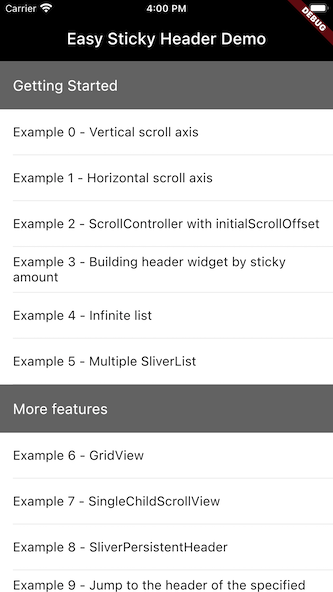
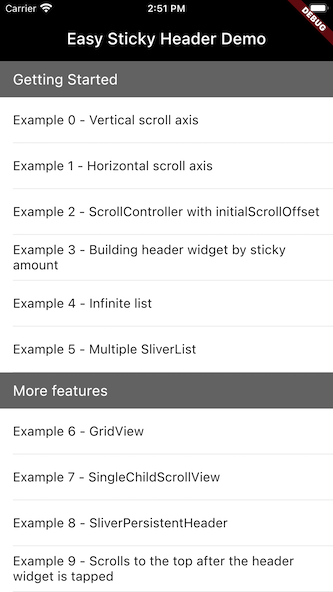
Update README and examples

diff --git a/example/lib/examples/example10.dart b/example/lib/examples/example10.dart
@@ -1,16 +1,17 @@
 import 'dart:math';
 
 import 'package:easy_sticky_header/easy_sticky_header.dart';
+import 'package:flutter/foundation.dart';
 import 'package:flutter/material.dart';
 
-class Example9 extends StatefulWidget {
-  const Example9({Key? key}) : super(key: key);
+class Example10 extends StatefulWidget {
+  const Example10({Key? key}) : super(key: key);
 
   @override
-  State<Example9> createState() => _Example9State();
+  State<Example10> createState() => _Example10State();
 }
 
-class _Example9State extends State<Example9> {
+class _Example10State extends State<Example10> {
   late final StickyHeaderController _controller;
 
   @override
@@ -32,8 +33,7 @@ class _Example9State extends State<Example9> {
       appBar: AppBar(
         shadowColor: Colors.transparent,
         backgroundColor: Colors.black,
-        title:
-            const Text('Scrolls to the top after the header widget is tapped'),
+        title: const Text('Jumps to the header of the specified index'),
       ),
       body: StickyHeader(
         controller: _controller,
@@ -43,28 +43,21 @@ class _Example9State extends State<Example9> {
           ),
           itemCount: 100,
           itemBuilder: (context, index) {
-            if (index % 6 == 0) {
+            if (index % 3 == 0) {
               return StickyContainerWidget(
                 index: index,
-                child: GestureDetector(
-                  onTap: () {
-                    // Jumps without animation.
-                    // _controller.jumpTo(index);
-                    _controller.animateTo(index);
-                  },
-                  child: Container(
-                    color: Color.fromRGBO(Random().nextInt(256),
-                        Random().nextInt(256), Random().nextInt(256), 1),
-                    padding: const EdgeInsets.only(left: 16.0),
-                    alignment: Alignment.centerLeft,
-                    width: double.infinity,
-                    height: 50,
-                    child: Text(
-                      'Header #$index',
-                      style: const TextStyle(
-                        color: Colors.white,
-                        fontSize: 16,
-                      ),
+                child: Container(
+                  color: Color.fromRGBO(Random().nextInt(256),
+                      Random().nextInt(256), Random().nextInt(256), 1),
+                  padding: const EdgeInsets.only(left: 16.0),
+                  alignment: Alignment.centerLeft,
+                  width: double.infinity,
+                  height: 50,
+                  child: Text(
+                    'Header #$index',
+                    style: const TextStyle(
+                      color: Colors.white,
+                      fontSize: 16,
                     ),
                   ),
                 ),
@@ -95,6 +88,23 @@ class _Example9State extends State<Example9> {
               ],
             );
           },
+        ),
+      ),
+      floatingActionButton: FloatingActionButton(
+        onPressed: () {
+          /// Note that this jump operation is cache based. If the header widget
+          /// information of the specified index is not in the cache, no
+          /// operation will be performed and false will be returned.
+          if (kDebugMode) {
+            print('success: ${_controller.jumpTo(6)}');
+          }
+        },
+        child: const Text(
+          'Jump',
+          style: TextStyle(
+            color: Colors.white,
+            fontSize: 10,
+          ),
         ),
       ),
     );

diff --git a/lib/src/sticky_header_controller.dart b/lib/src/sticky_header_controller.dart
@@ -270,13 +270,33 @@ class StickyHeaderController extends ChangeNotifier {
   /// Usually no need to call, this is called to avoid problems in some cases.
   void clearStickyHeaderInfo() => _stickyHeaderInfoMap.clear();
 
-  /// Jump to the header widget of the specified index.
+  /// Jumps to the header widget of the specified index, adding a transition
+  /// animation compared to [jumpTo]. For the attention of [animateTo], please
+  /// also refer to the usage of [jumpTo].
+  bool animateTo(
+    int index, {
+    Duration? duration,
+    Curve? curve,
+  }) {
+    var stickyHeaderInfo = getStickyHeaderInfo(index);
+    if (stickyHeaderInfo != null) {
+      _scrollPosition?.animateTo(
+        stickyHeaderInfo.pixels,
+        duration: duration ?? const Duration(milliseconds: 500),
+        curve: curve ?? Curves.ease,
+      );
+      return true;
+    }
+    return false;
+  }
+
+  /// Jumps to the header widget of the specified index.
   ///
   /// Note that this jump operation is based on the [_stickyHeaderInfoMap]
   /// cache. If the header widget information of the specified index is not
   /// in the cache, no operation will be performed and false will be returned.
   bool jumpTo(int index) {
-    var stickyHeaderInfo = _stickyHeaderInfoMap[index];
+    var stickyHeaderInfo = getStickyHeaderInfo(index);
     if (stickyHeaderInfo != null) {
       _scrollPosition?.jumpTo(stickyHeaderInfo.pixels);
       WidgetsBinding.instance.addPostFrameCallback((timeStamp) {

diff --git a/example/lib/main.dart b/example/lib/main.dart
@@ -3,6 +3,7 @@ import 'package:flutter/material.dart';
 
 import 'examples/example0.dart';
 import 'examples/example1.dart';
+import 'examples/example10.dart';
 import 'examples/example2.dart';
 import 'examples/example3.dart';
 import 'examples/example4.dart';
@@ -95,8 +96,13 @@ class _MyHomePageState extends State<MyHomePage> {
             } else if (index == 11) {
               return _buildItem(
                   index,
-                  'Example 9 - Jump to the header of the specified index',
+                  'Example 9 - Scrolls to the top after the header widget is tapped',
                   () => _push(context, const Example9()));
+            } else if (index == 12) {
+              return _buildItem(
+                  index,
+                  'Example 10 - Jumps to the header widget of the specified index',
+                  () => _push(context, const Example10()));
             }
             return Container();
           },
@@ -112,7 +118,7 @@ class _MyHomePageState extends State<MyHomePage> {
           padding: const EdgeInsets.only(left: 16.0),
           alignment: Alignment.centerLeft,
           width: double.infinity,
-          height: 60,
+          height: 45,
           child: Text(
             title,
             style: const TextStyle(

diff --git a/example/lib/examples/example0.dart b/example/lib/examples/example0.dart
@@ -98,38 +98,5 @@ class _Example0State extends State<Example0> {
         ),
       ),
     );
-
-    // StickyHeader(
-    //   child: ListView.builder(
-    //     itemCount: 100,
-    //     itemBuilder: (context, index) {
-    //       if (index % 3 == 0) {
-    //         return StickyContainerWidget(
-    //           index: index,
-    //           child: Container(
-    //             color: Color.fromRGBO(Random().nextInt(256),
-    //                 Random().nextInt(256), Random().nextInt(256), 1),
-    //             padding: const EdgeInsets.only(left: 16.0),
-    //             alignment: Alignment.centerLeft,
-    //             width: double.infinity,
-    //             height: 50,
-    //             child: Text(
-    //               'Header #$index',
-    //               style: const TextStyle(
-    //                 color: Colors.white,
-    //                 fontSize: 16,
-    //               ),
-    //             ),
-    //           ),
-    //         );
-    //       }
-    //       return Container(
-    //         width: double.infinity,
-    //         height: 80,
-    //         color: Colors.white,
-    //       );
-    //     },
-    //   ),
-    // );
   }
 }

diff --git a/README.md b/README.md
@@ -1,8 +1,10 @@
 # easy_sticky_header
 
-[![](https://img.shields.io/badge/platform-Flutter-blue.svg)](https://flutter.dev)
-[![](https://img.shields.io/pub/v/easy_sticky_header.svg)](https://pub.dev/packages/easy_sticky_header)
-[![](https://img.shields.io/badge/License-MIT-green.svg)](https://opensource.org/licenses/MIT)
+[![platform](https://img.shields.io/badge/platform-Flutter-blue.svg?logo=flutter)](https://flutter.dev)
+[![pub](https://img.shields.io/pub/v/easy_sticky_header.svg)](https://pub.dev/packages/easy_sticky_header)
+[![license](https://img.shields.io/badge/License-MIT-green.svg)](https://opensource.org/licenses/MIT)
+[![issues](https://img.shields.io/github/issues/crasowas/easy_sticky_header?logo=github)](https://github.com/crasowas/easy_sticky_header/issues)
+[![commits](https://img.shields.io/github/last-commit/crasowas/easy_sticky_header?logo=github)](https://github.com/crasowas/easy_sticky_header/commits)
 
 ## English | [中文](README-CN.md)
 
@@ -13,7 +15,8 @@ An easy-to-use and powerful sticky header for any widget that supports scrolling
 * Support widget for horizontal or vertical scrolling
 * Support widget for reverse scrolling
 * Allow dynamic building of header widget and support custom transition animation
-* Header widget can be non-sticky
+* Header widget can dynamically change stickiness
+* Support for scrolling to the top after the header widget is tapped
 * Support infinite list
 
 ## Usage

diff --git a/README-CN.md b/README-CN.md
@@ -1,8 +1,10 @@
 # easy_sticky_header
 
-[![](https://img.shields.io/badge/platform-Flutter-blue.svg)](https://flutter.dev)
-[![](https://img.shields.io/pub/v/easy_sticky_header.svg)](https://pub.dev/packages/easy_sticky_header)
-[![](https://img.shields.io/badge/License-MIT-green.svg)](https://opensource.org/licenses/MIT)
+[![platform](https://img.shields.io/badge/platform-Flutter-blue.svg?logo=flutter)](https://flutter.dev)
+[![pub](https://img.shields.io/pub/v/easy_sticky_header.svg)](https://pub.dev/packages/easy_sticky_header)
+[![license](https://img.shields.io/badge/License-MIT-green.svg)](https://opensource.org/licenses/MIT)
+[![issues](https://img.shields.io/github/issues/crasowas/easy_sticky_header?logo=github)](https://github.com/crasowas/easy_sticky_header/issues)
+[![commits](https://img.shields.io/github/last-commit/crasowas/easy_sticky_header?logo=github)](https://github.com/crasowas/easy_sticky_header/commits)
 
 ## [English](README.md) | 中文
 
@@ -13,7 +15,8 @@
 * 支持水平或垂直方向滚动的组件
 * 支持反向滚动的组件
 * 允许动态构建头部组件，支持自定义过渡动画
-* 头部组件可以没有粘性
+* 头部组件可以动态改变粘性
+* 支持点击头部组件后置顶
 * 支持无限列表
 
 ## 用法

diff --git a/CHANGELOG.md b/CHANGELOG.md
@@ -1,5 +1,6 @@
 ## 1.0.1
 * Support for earlier version of dart sdk.
+* Update README and examples.
 
 ## 1.0.0
 * Initial version.
